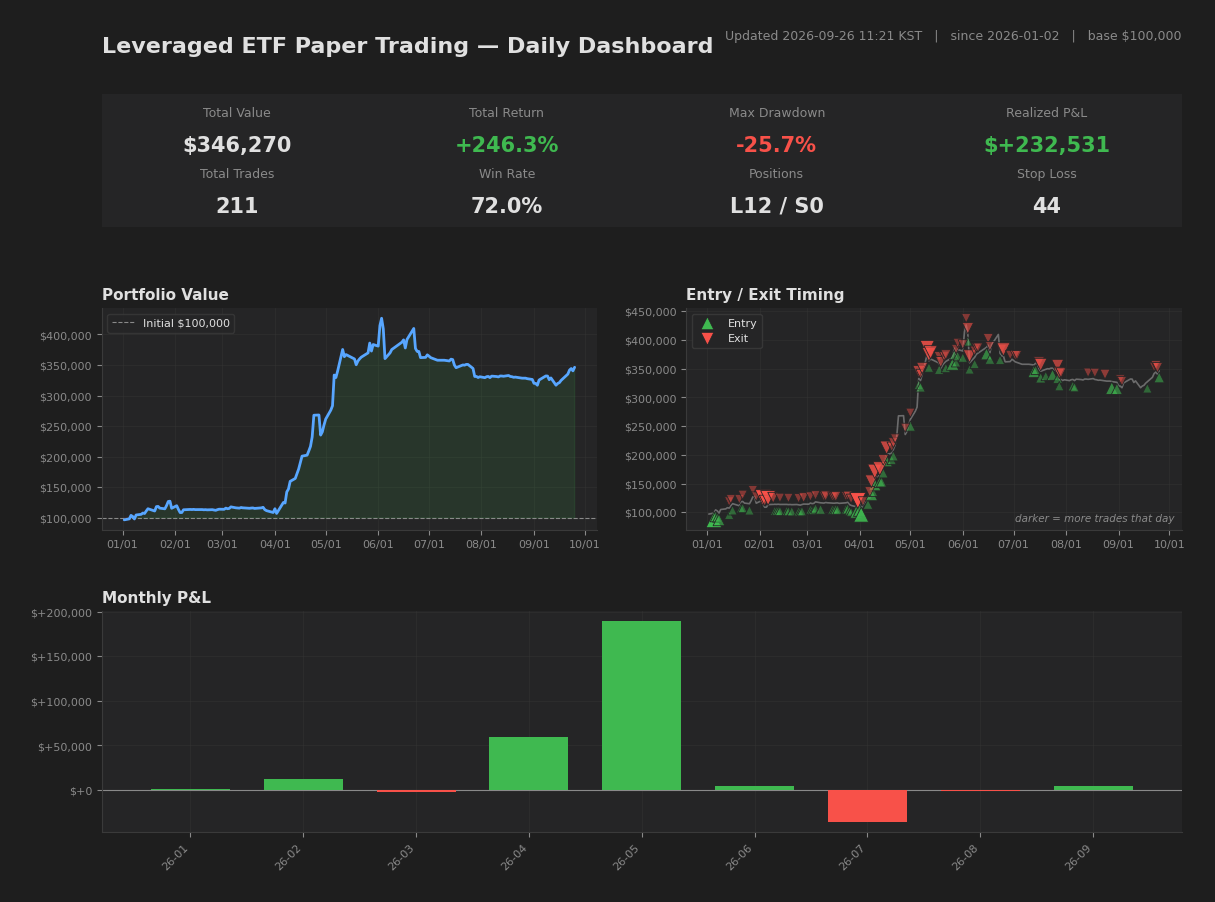
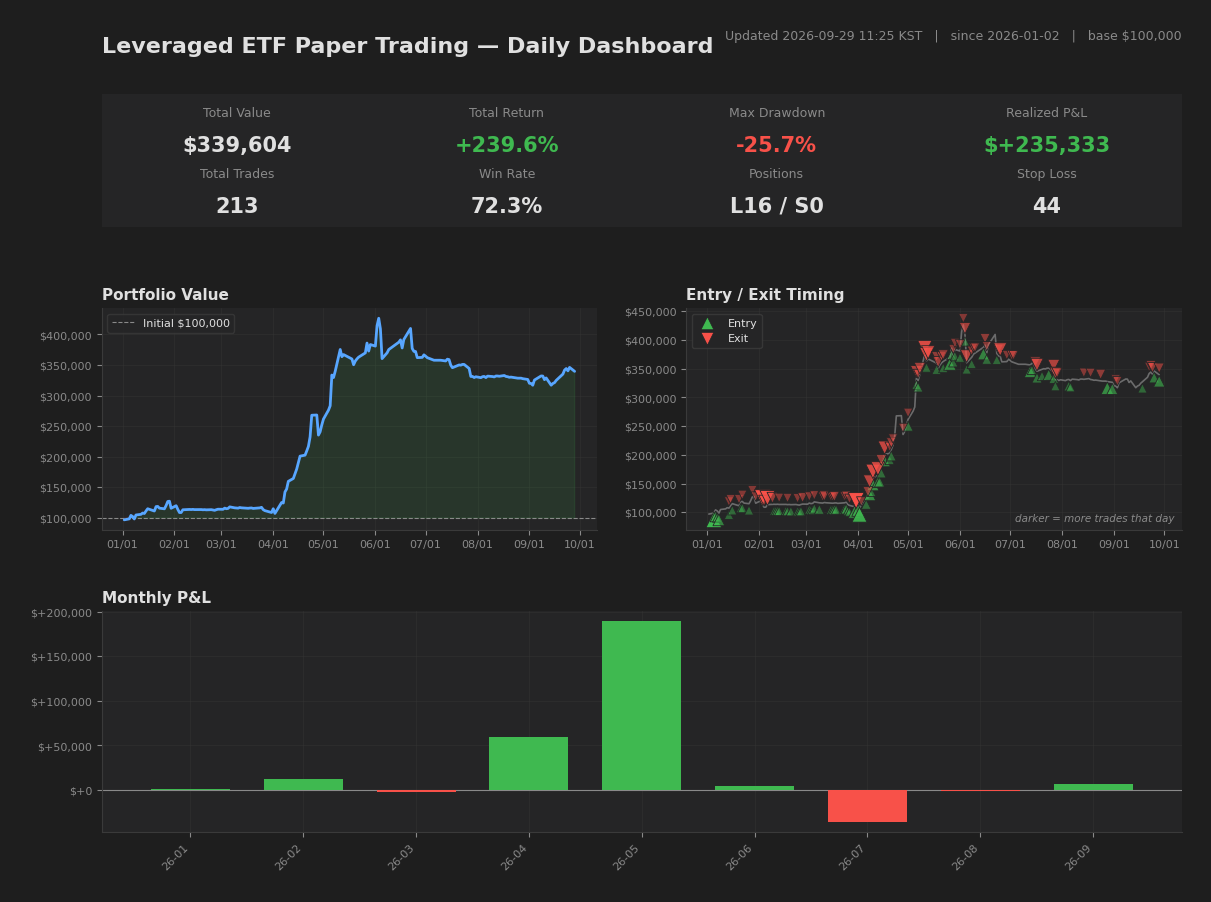
[2026-09-28] Close
Portfolio: $339,604 (+239.6%)
Positions: 16 (L16 S0)
Cumulative: 154/213 wins, P&L: $+235,333
Entries: 6
Exits: 2 (P&L: $+2,802)

diff --git a/README.md b/README.md
@@ -20,7 +20,7 @@ Drawdown control vs. benchmark. While the benchmark experienced a maximum drawdo
 
 <!-- METRICS:BEGIN (auto-generated by snapshot_backup.py after each market close; do not edit by hand) -->
 - Maximum drawdown: **-25.68%** (peak 2026-06-03 -> trough 2026-09-03, recovered since)
-- As of **2026-09-25** market close. Updated automatically after each close.
+- As of **2026-09-28** market close. Updated automatically after each close.
 <!-- METRICS:END -->
 
 Execution costs. Because the strategy holds positions over multi-day periods with low turnover, the impact of slippage and commissions is designed to be limited rather than a primary driver of results.
